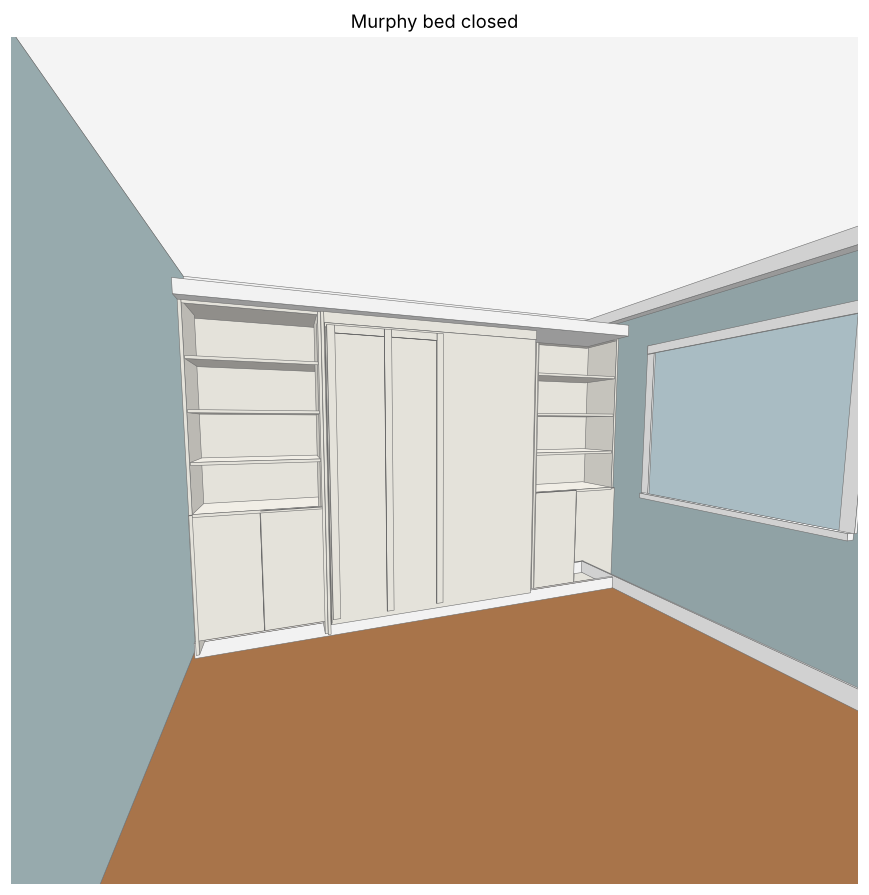
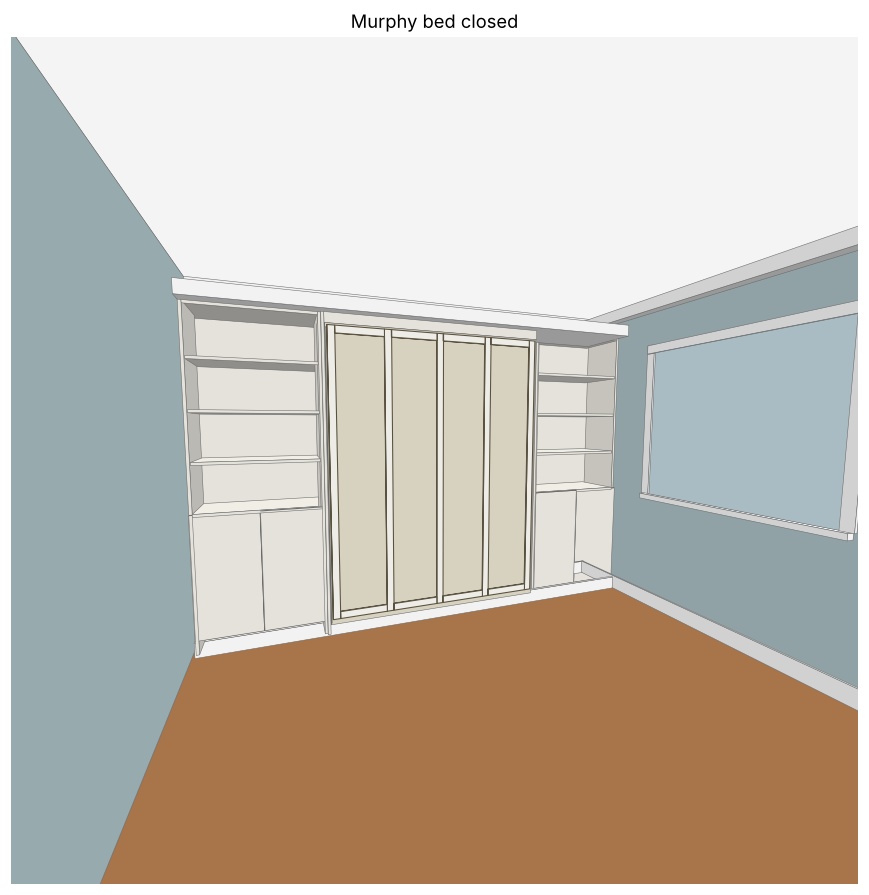
Fix room renders: show face moulding when closed; open view paneled face underneath; add face-from-below drawing and tests
Claude-Session: https://claude.ai/code/session_01KugbWEtLNVU8bq7dW5xBvy

Changed region(s): [[0.3728, 0.362, 0.6214, 0.6939]]

diff --git a/murphy-bed/render_room.py b/murphy-bed/render_room.py
@@ -77,45 +77,52 @@ class Camera:
         return sum((c[i] - self.eye[i]) ** 2 for i in range(3))
 
 
+PANEL = '#e3dccb'          # face panel field, a touch darker than the applied strips
+STRIP = '#fbf9f4'
+
+
 def scene(open_bed):
-    """Return list of (faces, color) solids. Each solid is a box; walls are added separately."""
+    """Return (name, (x, y, z, dx, dy, dz), color, decal) solids. Decals are drawn on top of the panel they sit on."""
     solids = []
     for name, g, x, y, z, dx, dy, dz in d.boxes():
+        if g == 'facetrim':
+            if not open_bed:                                  # closed: strips sit on the panel, facing the room
+                solids.append((name, (x, y, z, dx, dy, dz), STRIP, True))
+            continue
         if open_bed and (name.startswith('bed face') or name.startswith('bed frame')):
             continue
-        col = PAINT
-        if g == 'trim':
-            col = '#ffffff'
-        solids.append((name, (x, y, z, dx, dy, dz), col))
+        col = PANEL if name.startswith('bed face') else ('#ffffff' if g == 'trim' else PAINT)
+        solids.append((name, (x, y, z, dx, dy, dz), col, False))
     xb = d.SCRIBE + d.TOWER_W
     if open_bed:
-        bw = 64.375
-        x0 = xb + (d.BED_W - bw) / 2
-        deck_z = 15.0
-        # frame, mattress, headboard, legs
-        solids.append(('frame', (x0, 9, deck_z, bw, 78, 5.875), '#8a6a45'))
-        solids.append(('mattress', (xb + (d.BED_W - 60) / 2, 7, deck_z + 5.875, 60, 80, 10), '#c4592f'))
-        solids.append(('face panel (underside)', (x0 - 0.5, 9, deck_z - 0.75, bw + 1, 78, 0.75), PAINT))
-        for lx in (x0 + 2, x0 + bw - 3):
-            solids.append(('leg', (lx, 84.5, 0, 1, 1, deck_z), '#222222'))
-    else:
-        pass
+        # Open: the bed pivots down, so the paneled FACE points at the floor. The panel runs from ~5" to the 87" projection.
+        face_x = xb + d.T + (d.BED_W - 2 * d.T - d.FACE_PANEL_W) / 2
+        y0 = d.BED_OPEN_PROJ - d.FACE_PANEL_H
+        panel_z = 14.25                                       # underside of the panel (approximate deck height)
+        solids.append(('face panel (underside)', (face_x, y0, panel_z, d.FACE_PANEL_W, d.FACE_PANEL_H, 0.75), PANEL, False))
+        frame_w = d.FACE_PANEL_W - 0.5
+        solids.append(('frame', (face_x + 0.25, y0 + 0.25, panel_z + 0.75, frame_w, d.FACE_PANEL_H - 0.5, 5.875), '#8a6a45', False))
+        solids.append(('mattress', (face_x + (d.FACE_PANEL_W - 60) / 2, y0 + 0.9, panel_z + 0.75 + 5.875, 60, 80, 10), '#c4592f', False))
+        # The applied strips are on the underside of this panel (facing the floor), so a standing viewer cannot see them;
+        # see draw_open_face() for that side.
+        for lx in (face_x + 3, face_x + d.FACE_PANEL_W - 4):
+            solids.append(('leg', (lx, d.BED_OPEN_PROJ - 2.5, 0, 1, 1, panel_z), '#222222', False))
     # room fixtures on the walls
-    solids.append(('existing baseboard (bed wall)', (0, 0, 0, d.WALL_W, 0.5, BASE_EXIST), '#ffffff'))
-    solids.append(('existing baseboard (window wall)', (0, 0, 0, 0.5, ROOM_D, BASE_EXIST), '#ffffff'))
-    solids.append(('existing crown (bed wall)', (0, 0, d.CEIL_H - d.EXIST_CROWN_H, d.WALL_W, d.EXIST_CROWN_PROJ, d.EXIST_CROWN_H), '#ffffff'))
-    solids.append(('existing crown (window wall)', (0, 0, d.CEIL_H - d.EXIST_CROWN_H, d.EXIST_CROWN_PROJ, ROOM_D, d.EXIST_CROWN_H), '#ffffff'))
+    solids.append(('existing baseboard (bed wall)', (0, 0, 0, d.WALL_W, 0.5, BASE_EXIST), '#ffffff', False))
+    solids.append(('existing baseboard (window wall)', (0, 0, 0, 0.5, ROOM_D, BASE_EXIST), '#ffffff', False))
+    solids.append(('existing crown (bed wall)', (0, 0, d.CEIL_H - d.EXIST_CROWN_H, d.WALL_W, d.EXIST_CROWN_PROJ, d.EXIST_CROWN_H), '#ffffff', False))
+    solids.append(('existing crown (window wall)', (0, 0, d.CEIL_H - d.EXIST_CROWN_H, d.EXIST_CROWN_PROJ, ROOM_D, d.EXIST_CROWN_H), '#ffffff', False))
     wy = d.WINDOW_FROM_WALL
-    solids.append(('window glass', (0, wy, SILL, 0.3, WIN_W, HEAD - SILL), '#cfe6ef'))
-    solids.append(('window sill', (0, wy - 2, SILL - 1.5, 2, WIN_W + 4, 1.5), '#ffffff'))
+    solids.append(('window glass', (0, wy, SILL, 0.3, WIN_W, HEAD - SILL), '#cfe6ef', False))
+    solids.append(('window sill', (0, wy - 2, SILL - 1.5, 2, WIN_W + 4, 1.5), '#ffffff', False))
     for (yy, ww) in ((wy - 2.5, 2.5), (wy + WIN_W, 2.5)):
-        solids.append(('window casing', (0, yy, SILL, 0.8, ww, HEAD - SILL + 2.5), '#ffffff'))
-    solids.append(('window casing head', (0, wy - 2.5, HEAD, 0.8, WIN_W + 5, 2.5), '#ffffff'))
+        solids.append(('window casing', (0, yy, SILL, 0.8, ww, HEAD - SILL + 2.5), '#ffffff', False))
+    solids.append(('window casing head', (0, wy - 2.5, HEAD, 0.8, WIN_W + 5, 2.5), '#ffffff', False))
     return solids
 
 
-def render(open_bed, path):
-    cam = Camera(eye=(108, 128, 58), target=(62, 0, 46), fov_deg=92, aspect=1.0)
+def render(open_bed, path, eye=(108, 128, 58), target=(62, 0, 46), title=None):
+    cam = Camera(eye=eye, target=target, fov_deg=92, aspect=1.0)
     polys = []
     W, D, H = d.WALL_W, ROOM_D, d.CEIL_H
     big = [([(0, 0, H), (W, 0, H), (W, D, H), (0, D, H)], '#f4f4f4'),            # ceiling
@@ -126,8 +133,8 @@ def render(open_bed, path):
     for pts, col in big:
         p = cam.project_poly(pts)
         if p:
-            polys.append((1e12, p, col))
-    for name, (x, y, z, dx, dy, dz), col in scene(open_bed):
+            polys.append((1e12, p, col, '#6b6b6b', 0.35))
+    for name, (x, y, z, dx, dy, dz), col, decal in scene(open_bed):
         for pts, n in box_faces(x, y, z, dx, dy, dz):
             # back-face culling: face normal must point toward the camera
             c = [sum(p[i] for p in pts) / 4 for i in range(3)]
@@ -135,17 +142,46 @@ def render(open_bed, path):
                 continue
             p = cam.project_poly(pts)
             if p:
-                polys.append((cam.dist(pts), p, shade(col, n)))
+                # decals (applied moulding) are painted after everything else so the big panel face cannot cover them
+                polys.append((-1.0 if decal else cam.dist(pts), p, shade(col, n),
+                              '#5a5240' if decal else '#6b6b6b', 0.7 if decal else 0.35))
     polys.sort(key=lambda t: -t[0])
     fig, ax = plt.subplots(figsize=(10, 10))
-    for _, p, col in polys:
-        ax.add_patch(Polygon(p, closed=True, fc=col, ec='#6b6b6b', lw=0.35))
+    for _, p, col, ec, lw in polys:
+        ax.add_patch(Polygon(p, closed=True, fc=col, ec=ec, lw=lw))
     ax.set_xlim(-1.0, 1.0)
     ax.set_ylim(-1.0, 1.0)
     ax.set_aspect('equal')
     ax.axis('off')
-    ax.set_title('Murphy bed open' if open_bed else 'Murphy bed closed')
+    ax.set_title(title or ('Murphy bed open' if open_bed else 'Murphy bed closed'))
     fig.savefig(path, dpi=110, bbox_inches='tight')
+    plt.close(fig)
+
+
+def draw_open_face(path):
+    """The bed seen from the floor looking up when it is open: this is the paneled face you see when it is closed."""
+    from matplotlib.patches import Rectangle
+    fig, ax = plt.subplots(figsize=(7, 10))
+    face_x = (d.BED_W - d.FACE_PANEL_W) / 2          # relative to the bed cabinet's left edge
+    y0 = d.BED_OPEN_PROJ - d.FACE_PANEL_H
+    ax.add_patch(Rectangle((-6, -4), d.BED_W + 12, 4, fc='#c9c9c9', ec='k'))
+    ax.text(d.BED_W / 2, -2, 'wall / bed cabinet', ha='center', va='center', fontsize=9)
+    ax.add_patch(Rectangle((face_x, y0), d.FACE_PANEL_W, d.FACE_PANEL_H, fc=PANEL, ec='k', lw=1.5))
+    for n, px, pz, pw, ph in d.face_trim_layout():
+        ax.add_patch(Rectangle((face_x + px, y0 + pz), pw, ph, fc=STRIP, ec='#5a5240', lw=0.8))
+    for lx in (face_x + 3, face_x + d.FACE_PANEL_W - 4):
+        ax.add_patch(Rectangle((lx - 0.5, d.BED_OPEN_PROJ - 3), 1.5, 1.5, fc='#222'))
+    for hx in (d.BED_W / 2 - d.HANDLE_OFFSET, d.BED_W / 2 + d.HANDLE_OFFSET):
+        ax.plot([hx] * 2, [y0 + d.HANDLE_Z[0] - d.FACE_PANEL_BOTTOM, y0 + d.HANDLE_Z[1] - d.FACE_PANEL_BOTTOM], 'k', lw=3)
+    ax.text(d.BED_W / 2, d.BED_OPEN_PROJ + 4, 'foot end (legs)', ha='center', fontsize=9)
+    ax.annotate('', (-9, 0), (-9, d.BED_OPEN_PROJ), arrowprops=dict(arrowstyle='<->'))
+    ax.text(-11, d.BED_OPEN_PROJ / 2, f'{d.BED_OPEN_PROJ:.0f}" from wall', rotation=90, va='center', ha='right', fontsize=9)
+    ax.set_xlim(-16, d.BED_W + 8)
+    ax.set_ylim(d.BED_OPEN_PROJ + 9, -8)
+    ax.set_aspect('equal')
+    ax.axis('off')
+    ax.set_title('Bed open, looking up from the floor: this paneled face points down,\nand is the front you see when the bed is closed', fontsize=10)
+    fig.savefig(path, dpi=120, bbox_inches='tight')
     plt.close(fig)
 
 
@@ -153,8 +189,9 @@ def main():
     out = os.path.join(os.path.dirname(os.path.abspath(__file__)), 'out')
     os.makedirs(out, exist_ok=True)
     render(False, os.path.join(out, 'room_closed.png'))
-    render(True, os.path.join(out, 'room_open.png'))
-    print('wrote room_closed.png, room_open.png')
+    render(True, os.path.join(out, 'room_open.png'), title='Murphy bed open (the paneled face is underneath, facing the floor)')
+    draw_open_face(os.path.join(out, 'open_bed_face.png'))
+    print('wrote room_closed.png, room_open.png, open_bed_face.png')
 
 
 if __name__ == '__main__':

diff --git a/murphy-bed/test_design.py b/murphy-bed/test_design.py
@@ -14,6 +14,7 @@ from collections import Counter
 
 sys.path.insert(0, os.path.dirname(os.path.abspath(__file__)))
 import design as d
+import render_room as rr
 
 EPS = 1e-6
 
@@ -318,6 +319,33 @@ class FacePanelMoulding(unittest.TestCase):
                     self.assertFalse((hx + 0.25 > x and hx - 0.25 < x + w) and (hz1 > z and hz0 < z + h), n)
         finally:
             d.FACE_PANEL_STYLE = saved
+
+
+class RoomRenders(unittest.TestCase):
+    def test_closed_view_has_every_moulding_strip_on_the_face(self):
+        decals = [s for s in rr.scene(open_bed=False) if s[3]]
+        self.assertEqual(len(decals), len(d.face_trim_layout()))
+        face = [b for b in d.boxes() if b[0] == 'bed face (closed)'][0]
+        for name, (x, y, z, dx, dy, dz), col, _ in decals:
+            self.assertAlmostEqual(y, face[3] + face[6])             # sits on the panel's front, not on the wall
+            self.assertGreaterEqual(x, face[2] - EPS)
+            self.assertLessEqual(x + dx, face[2] + face[5] + EPS)
+
+    def test_open_view_has_no_moulding_stuck_on_the_wall(self):
+        solids = rr.scene(open_bed=True)
+        self.assertFalse([s for s in solids if s[3]], 'closed-position strips must not appear when the bed is open')
+        self.assertFalse([s for s in solids if s[0].startswith('face moulding')])
+        panel = [s for s in solids if s[0] == 'face panel (underside)'][0][1]
+        self.assertAlmostEqual(panel[1] + panel[4], d.BED_OPEN_PROJ)   # foot end at the 87" projection
+        self.assertAlmostEqual(panel[4], d.FACE_PANEL_H)
+
+    def test_renders_write_files(self):
+        with tempfile.TemporaryDirectory() as tmp:
+            for name, open_bed in (('closed.png', False), ('open.png', True)):
+                rr.render(open_bed, os.path.join(tmp, name))
+                self.assertGreater(os.path.getsize(os.path.join(tmp, name)), 5000)
+            rr.draw_open_face(os.path.join(tmp, 'face.png'))
+            self.assertGreater(os.path.getsize(os.path.join(tmp, 'face.png')), 5000)
 
 
 class ReportsAndDrawings(unittest.TestCase):
